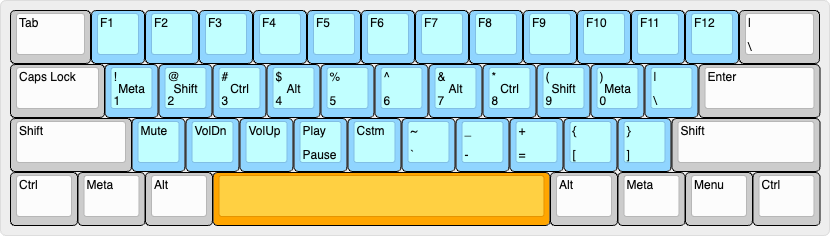
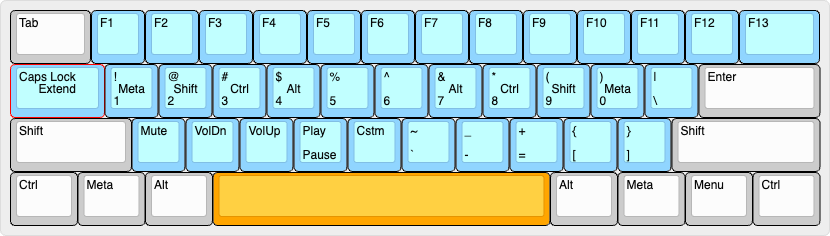
Update README.md

Changed region(s): [[0.0, 0.2669, 0.1506, 0.5042], [0.8735, 0.0297, 0.994, 0.2669]]

diff --git a/README.md b/README.md
@@ -22,10 +22,12 @@ A layered layout designed to augment your ANSI keyboard's capabilities without m
 - [Extend layer](https://www.keyboard-layout-editor.com/##@_name=Extend;&@_w:1.5;&=Tab&_c=#90D5FF;&=Esc&=Meta&_c=#cccccc;&=E&=R&=T&_c=#90D5FF;&=PgUp&=Home&=%E2%86%91&=End&=Insert&_c=#cccccc;&=%7B%0A%5B&=%7D%0A%5D&_w:1.5;&=%7C%0A%5C;&@_c=#FFA500&w:1.75;&=Caps%20Lock&_c=#90D5FF;&=Shift&=Ctrl&=Alt&_c=#cccccc;&=F&=G&_c=#90D5FF;&=PgDn&=%E2%86%90&=%E2%86%93&=%E2%86%92&=Delete&_c=#cccccc;&=%22%0A'&_w:2.25;&=Enter;&@_w:2.25;&=Shift&=Z&=X&=C&=V&=B&_c=#90D5FF;&=Menu&=Bspc&=Spc&=Tab&=Enter&_c=#cccccc&w:2.75;&=Shift;&@_w:1.25;&=Ctrl&_w:1.25;&=Meta&_w:1.25;&=Alt&_a:7&w:6.25;&=&_a:4&w:1.25;&=Alt&_w:1.25;&=Meta&_w:1.25;&=Menu&_w:1.25;&=Ctrl)
   
   ![Extend layer image](images/extend.png)
-- [Fumbol layer](https://www.keyboard-layout-editor.com/##@_name=Fumbol;&@_w:1.5;&=Tab&_c=#90D5FF;&=F1&=F2&=F3&=F4&=F5&=F6&=F7&=F8&=F9&=F10&=F11&=F12&_c=#cccccc&w:1.5;&=%7C%0A%5C;&@_w:1.75;&=Caps%20Lock&_c=#90D5FF;&=!%0A1%0A%0A%0A%0A%0A%0A%0A%0AMeta&=/@%0A2%0A%0A%0A%0A%0A%0A%0A%0AShift&=#%0A3%0A%0A%0A%0A%0A%0A%0A%0ACtrl&=$%0A4%0A%0A%0A%0A%0A%0A%0A%0AAlt&=%25%0A5&=%5E%0A6&=/&%0A7%0A%0A%0A%0A%0A%0A%0A%0AAlt&=*%0A8%0A%0A%0A%0A%0A%0A%0A%0ACtrl&=(%0A9%0A%0A%0A%0A%0A%0A%0A%0AShift&=)%0A0%0A%0A%0A%0A%0A%0A%0A%0AMeta&=%7C%0A%5C&_c=#cccccc&w:2.25;&=Enter;&@_w:2.25;&=Shift&_c=#90D5FF;&=Mute&=VolDn&=VolUp&=Play%0APause&=Cstm&=~%0A%60&=/_%0A-&=+%0A/=&=%7B%0A%5B&=%7D%0A%5D&_c=#cccccc&w:2.75;&=Shift;&@_w:1.25;&=Ctrl&_w:1.25;&=Meta&_w:1.25;&=Alt&_c=#FFA500&a:7&w:6.25;&=&_c=#cccccc&a:4&w:1.25;&=Alt&_w:1.25;&=Meta&_w:1.25;&=Menu&_w:1.25;&=Ctrl) (function, number, symbol)
+- [Fumbol layer](https://www.keyboard-layout-editor.com/##@_name=Fumbol%3B&@_w:1.5%3B&=Tab&_c=%2390D5FF%3B&=F1&=F2&=F3&=F4&=F5&=F6&=F7&=F8&=F9&=F10&=F11&=F12&_w:1.5%3B&=F13%3B&@_w:1.75%3B&=Caps%20Lock%0A%0A%0A%0A%0A%0A%0A%0A%0AExtend&=!%0A1%0A%0A%0A%0A%0A%0A%0A%0AMeta&=%2F@%0A2%0A%0A%0A%0A%0A%0A%0A%0AShift&=%23%0A3%0A%0A%0A%0A%0A%0A%0A%0ACtrl&=$%0A4%0A%0A%0A%0A%0A%0A%0A%0AAlt&=%25%0A5&=%5E%0A6&=%2F&%0A7%0A%0A%0A%0A%0A%0A%0A%0AAlt&=*%0A8%0A%0A%0A%0A%0A%0A%0A%0ACtrl&=(%0A9%0A%0A%0A%0A%0A%0A%0A%0AShift&=)%0A0%0A%0A%0A%0A%0A%0A%0A%0AMeta&=%7C%0A%5C&_c=%23cccccc&w:2.25%3B&=Enter%3B&@_w:2.25%3B&=Shift&_c=%2390D5FF%3B&=Mute&=VolDn&=VolUp&=Play%0APause&=Cstm&=~%0A%60&=%2F_%0A-&=+%0A%2F=&=%7B%0A%5B&=%7D%0A%5D&_c=%23cccccc&w:2.75%3B&=Shift%3B&@_w:1.25%3B&=Ctrl&_w:1.25%3B&=Meta&_w:1.25%3B&=Alt&_c=%23FFA500&a:7&w:6.25%3B&=&_c=%23cccccc&a:4&w:1.25%3B&=Alt&_w:1.25%3B&=Meta&_w:1.25%3B&=Menu&_w:1.25%3B&=Ctrl) (function, number, symbol)
   
   ![Fumbol layer image](images/fumbol.png)
-- Custom (or personal) layer
+- [Custom (or personal) layer](https://www.keyboard-layout-editor.com/##@_name=Custom;&@_w:1.5;&=Tab&=Q&=W&=E&=R&=T&=Y&=U&=I&=O&=P&=%7B%0A%5B&=%7D%0A%5D&_w:1.5;&=%7C%0A%5C;&@_c=#90D5FF&w:1.75;&=Caps%20Lock%0A%0A%0A%0A%0A%0A%0A%0A%0AExtend&=F14%0A%0A%0A%0A%0A%0A%0A%0A%0AMeta&=F15%0A%0A%0A%0A%0A%0A%0A%0A%0AShift&=F16%0A%0A%0A%0A%0A%0A%0A%0A%0ACtrl&=F17%0A%0A%0A%0A%0A%0A%0A%0A%0AAlt&=F18&=F19&=F20%0A%0A%0A%0A%0A%0A%0A%0A%0AAlt&=F21%0A%0A%0A%0A%0A%0A%0A%0A%0ACtrl&=F22%0A%0A%0A%0A%0A%0A%0A%0A%0AShift&=F23%0A%0A%0A%0A%0A%0A%0A%0A%0AMeta&=F24&_c=#cccccc&w:2.25;&=Enter;&@_w:2.25;&=Shift&=Z&=X&=C&=V&=B&=N&=M&=%3C%0A,&=%3E%0A.&=?%0A//&_w:2.75;&=Shift;&@_w:1.25;&=Ctrl&_w:1.25;&=Meta&_w:1.25;&=Alt&_c=#FFA500&a:7&w:6.25;&=&_c=#cccccc&a:4&w:1.25;&=Alt&_w:1.25;&=Meta&_w:1.25;&=Menu&_w:1.25;&=Ctrl)
+  
+  ![Custom layer image](images/custom.png)
 
 ## Goal
 
